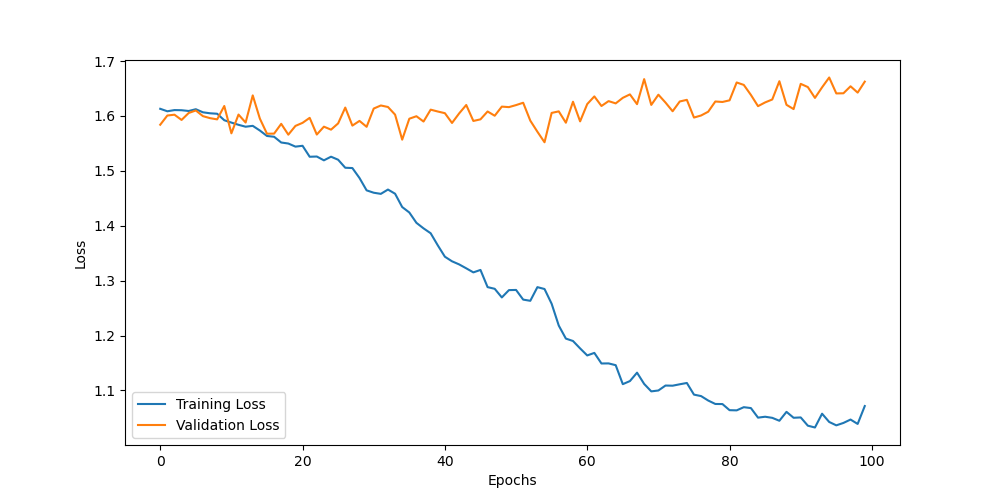
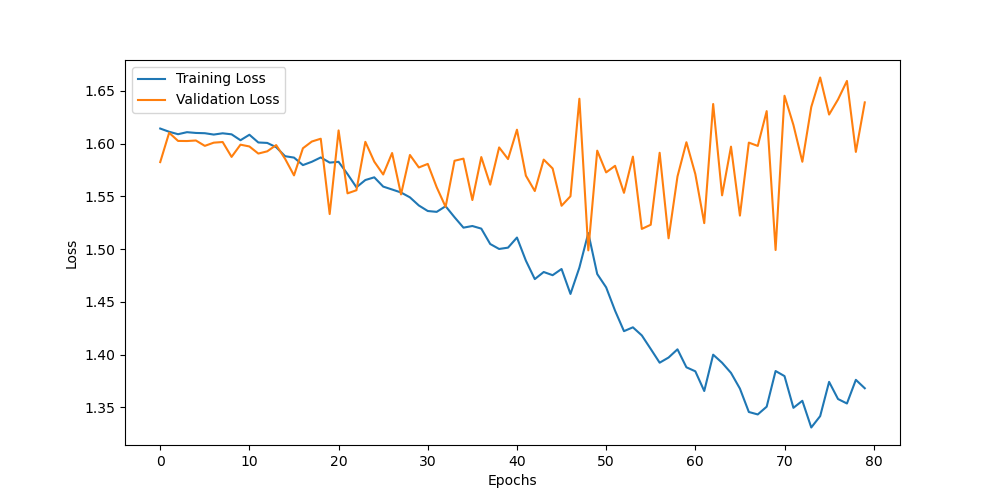
Committing Optimal Model Configuration so far
This config yielded best result so far on fold 1.
Epoch [43/80], Train Loss: 1.4716, Validation Loss: 1.5551 Train Accuracy: 44.90%, Validation Accuracy: 42.43%
Validation Class-wise Accuracy: [19.46 64.85 41.39 27.78 58.66]

diff --git a/train.py b/train.py
@@ -137,18 +137,18 @@ def main():
     hidden_dim = [88, 1024, 256]  # Hidden dimension for modality 1 and modality 2 and after fusion respectively
     num_heads = [2, 16, 2]  # Number of heads for modality 1 and modality 2 and after fusion respectively
     num_layers = [2, 4]  # Number of transformer encoder layers for modality 1 and modality 2 respectively
-    B = 3  # Number of bottleneck tokens
+    B = 5  # Number of bottleneck tokens
     Lf = 4  # Number of layers after fusion
     num_classes = 5
     batch_size = 64
     sequence_length = 7
     learning_rate = 1e-4
-    num_epochs = 100
+    num_epochs = 80
     iteration = 1
     mode = 'concat'  # Choose 'concat' or 'separate' for the last classification layer
     dropout_rate = 0  # Dropout rate before the last classification layer
     weight_decay = 0.0  # Weight decay for Adam optimizer
-    downsample_method = 'MaxPool'  # Choose 'MaxPool' or 'Linear' for down sampling method of the thermal embeddings
+    downsample_method = 'Linear'  # Choose 'MaxPool' or 'Linear' for down sampling method of the thermal embeddings
     device = torch.device("cuda:1" if torch.cuda.is_available() else "cpu")
     # device = 'cpu'
 
